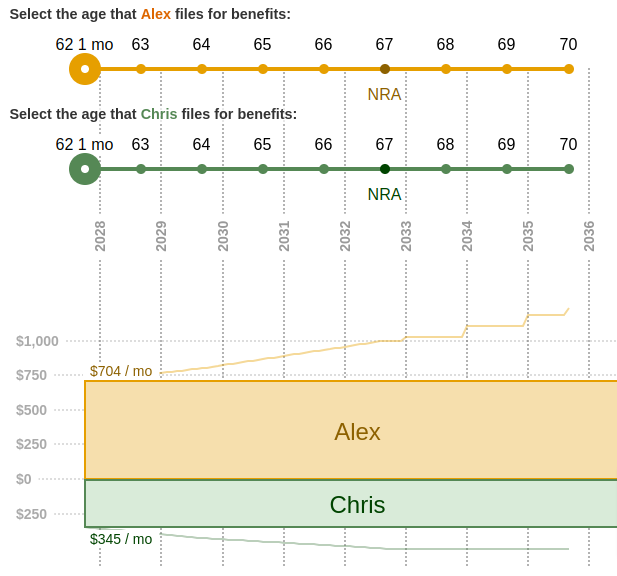
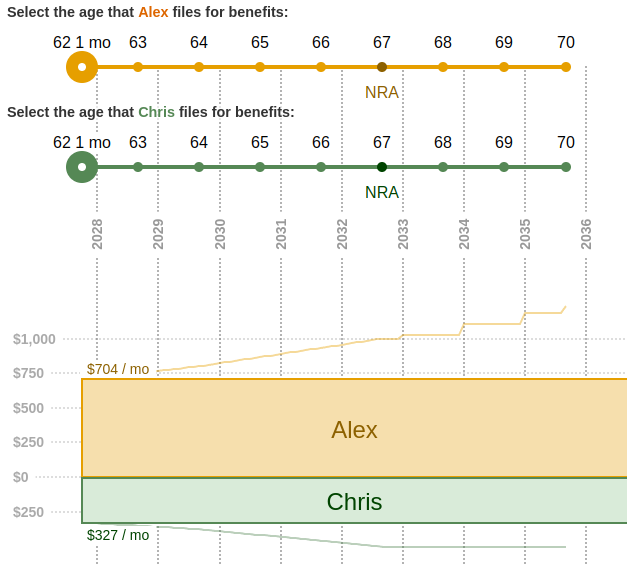
Fix an out of date image spotted by a user, Nick Ingegneri. (#362)

diff --git a/src/routes/guides/spousal-benefit-filing-date/+page.svelte b/src/routes/guides/spousal-benefit-filing-date/+page.svelte
@@ -75,8 +75,8 @@
     <figure class="float-right">
       <img
         src={EarlyFileImage}
-        width="617"
-        height="576"
+        width="636"
+        height="575"
         alt="Screenshot of benefit chart for two users, Alex and Chris. Both have filed for benefits at age 62 and 1 month. Alex's benefit is $704 / mo and Chris's benefit is $345 / mo."
       />
     </figure>
